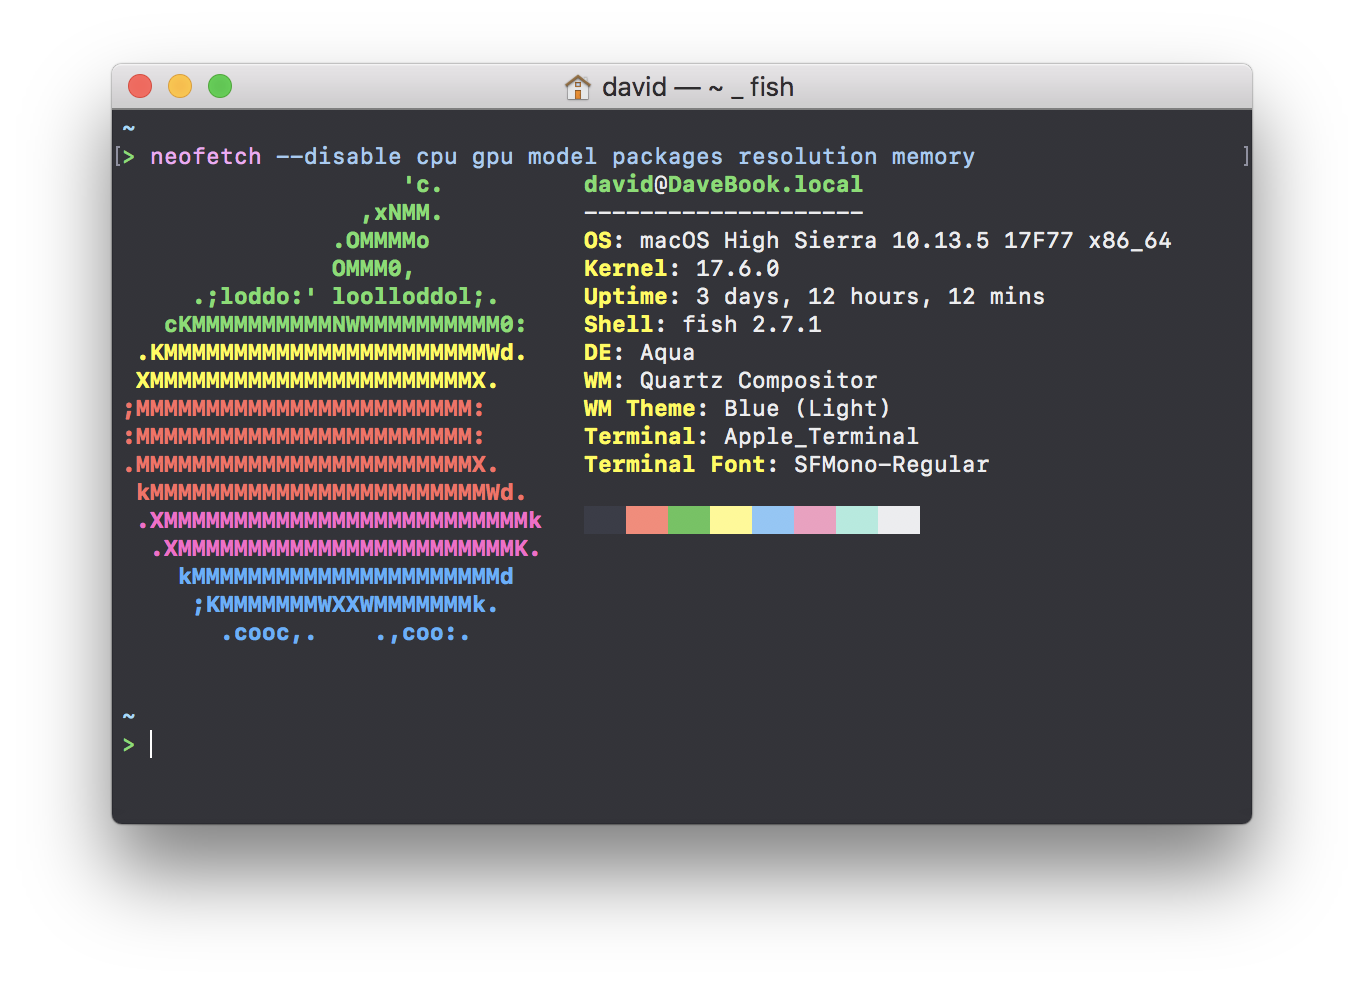
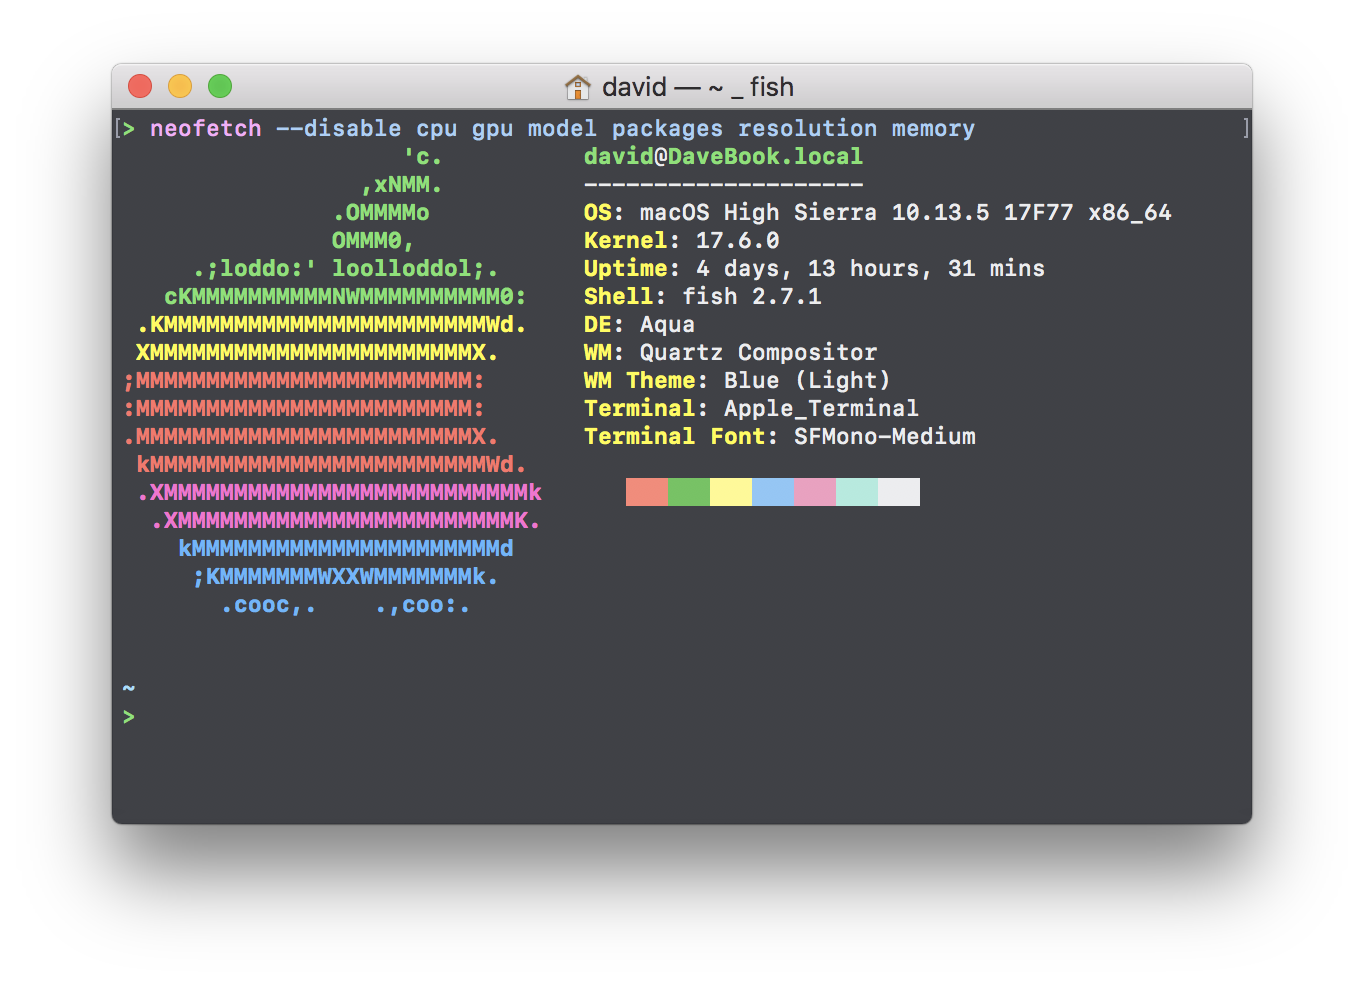
Updates blacks

Changed region(s): [[0.0924, 0.122, 0.8622, 0.5488], [0.0924, 0.4268, 0.4003, 0.6707]]

diff --git a/urban.css b/urban.css
@@ -97,11 +97,11 @@
 }
 
 .black {
-	color: #1F1F24;
+	color: #292A2F;
 }
 
 .bright-black {
-	color: #292B35;
+	color: #363945;
 }
 
 .full-black {
@@ -207,11 +207,11 @@
 }
 
 .black-bg {
-	background-color: #1F1F24;
+	background-color: #292A2F;
 }
 
 .bright-black-bg {
-	background-color: #292B35;
+	background-color: #363945;
 }
 
 .full-black-bg {
